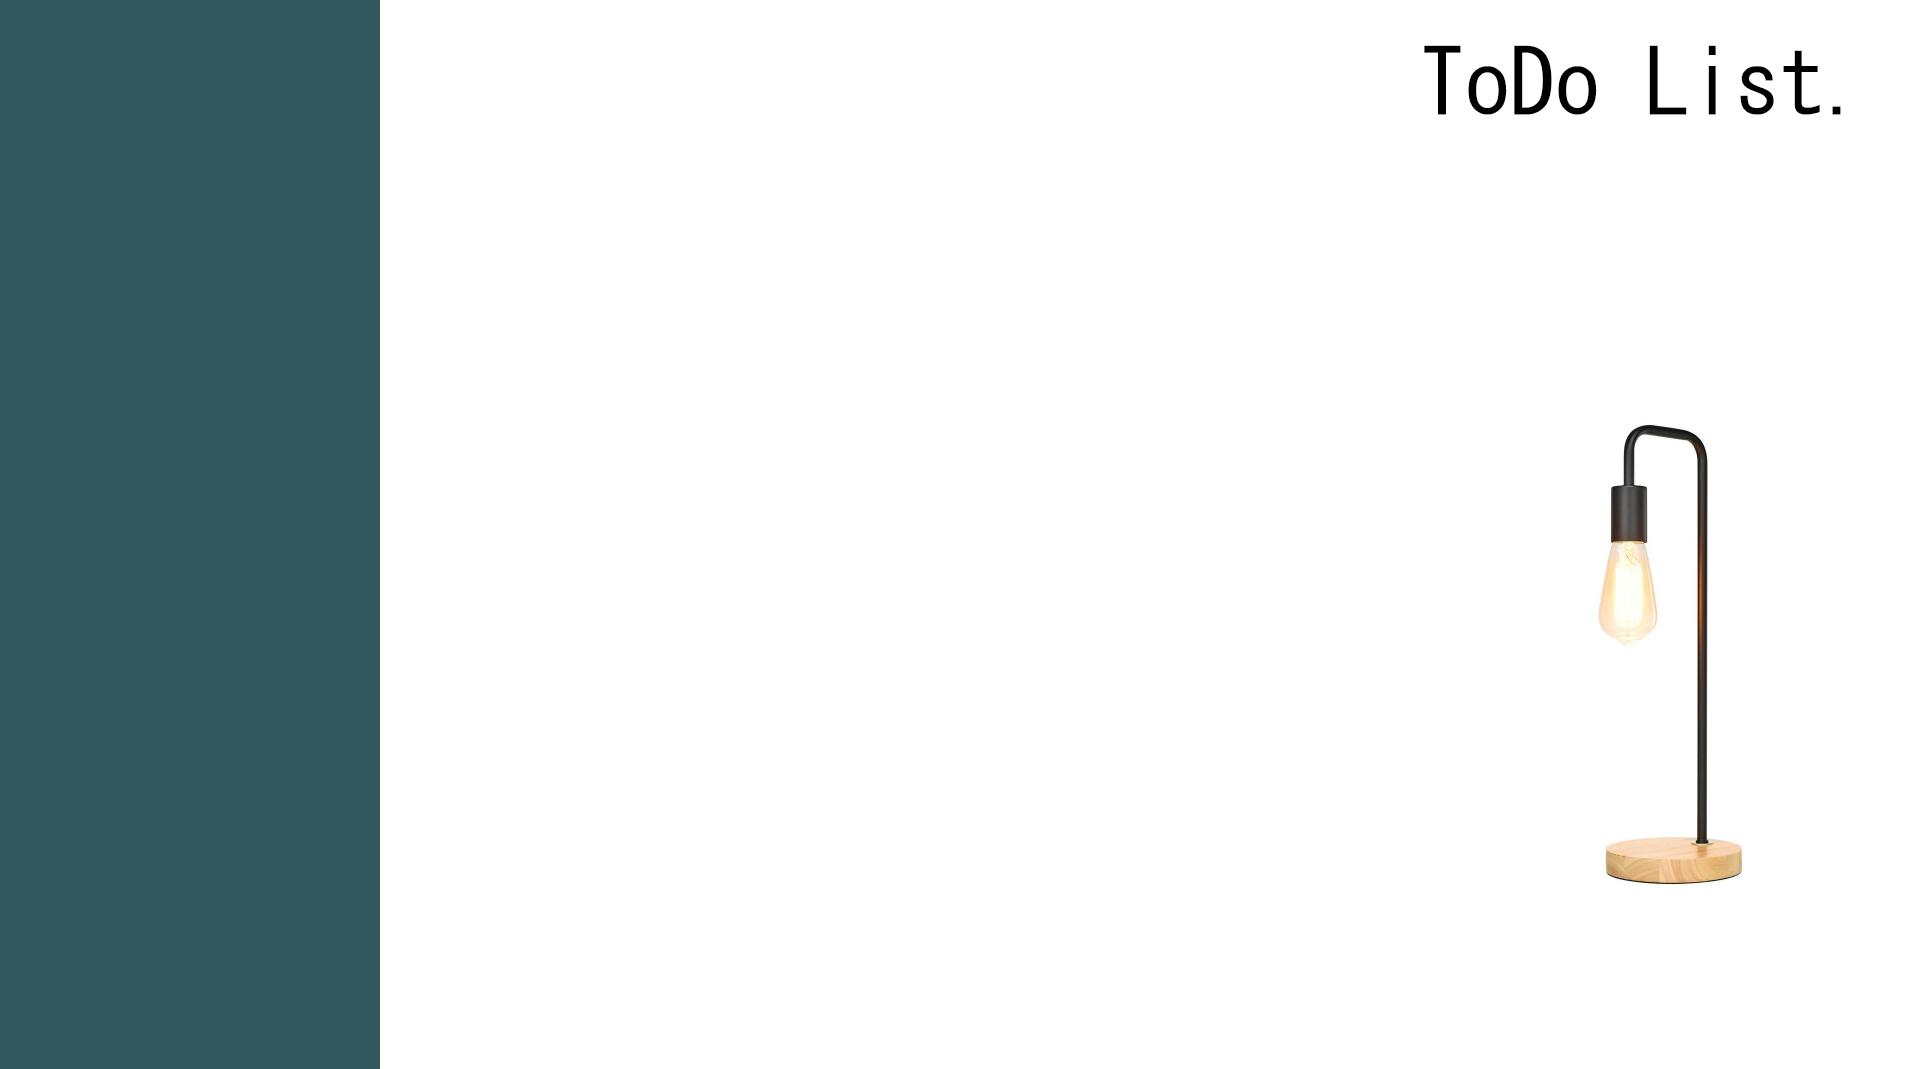
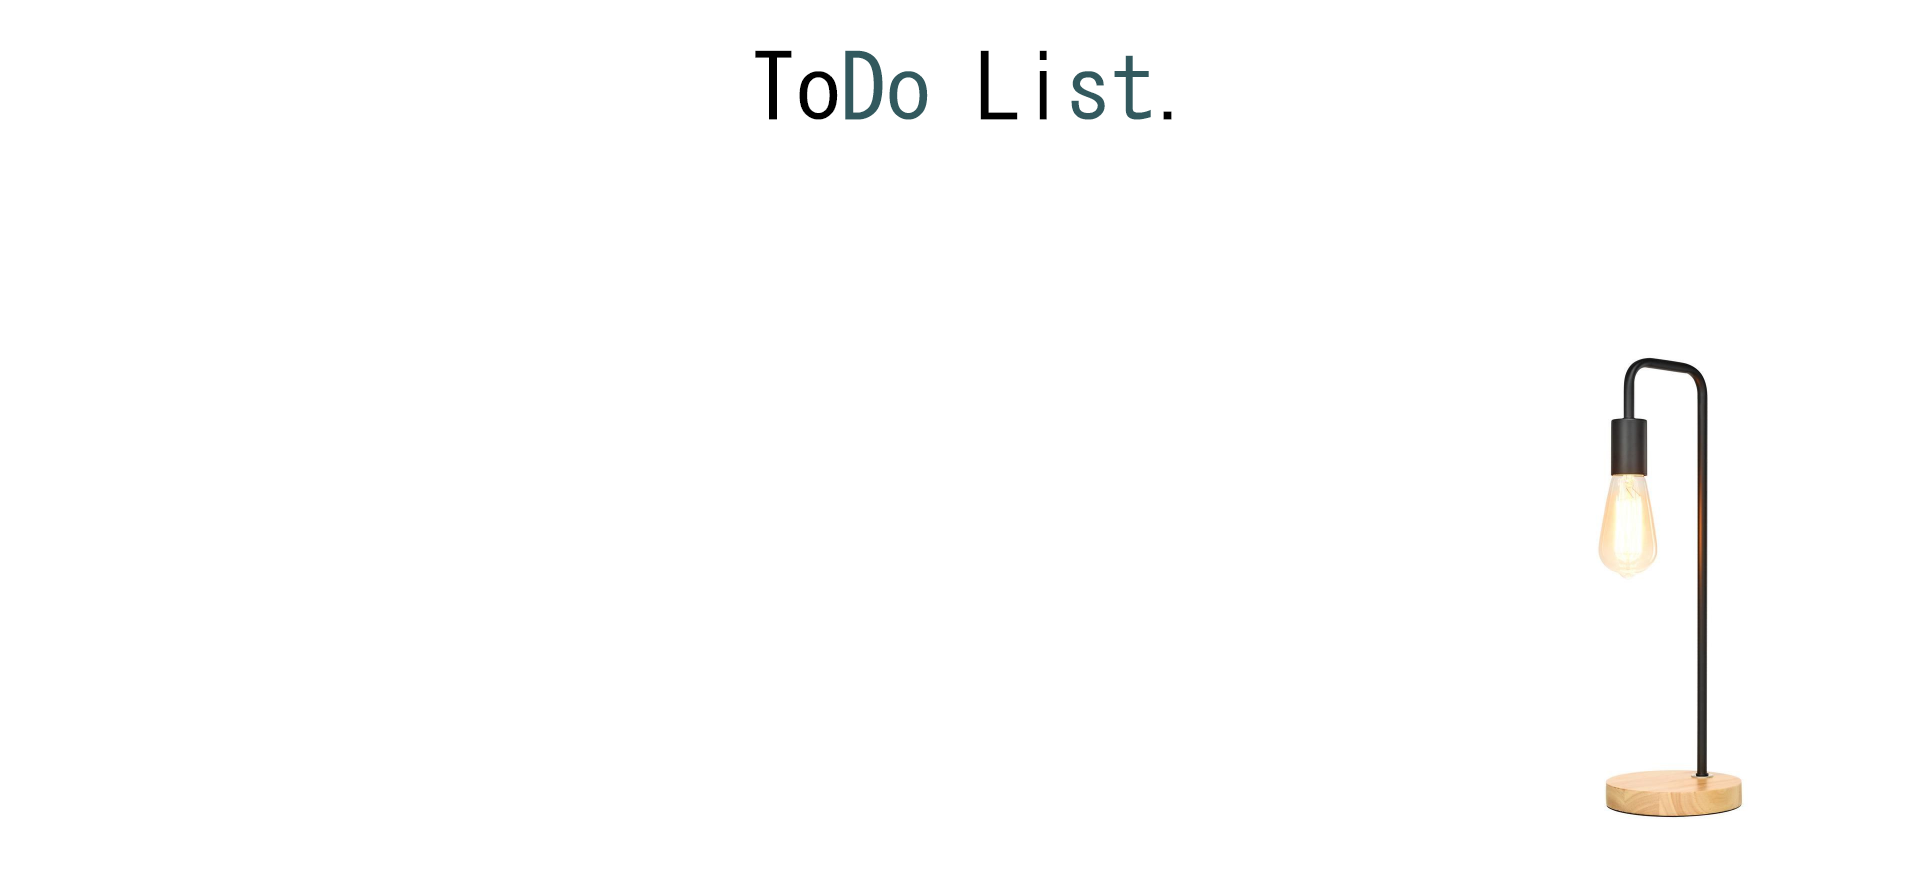
[ToDoList][Charlie-Janelle]  Refactor  : enhanced css

diff --git a/src/components/ToDoGenerator.js b/src/components/ToDoGenerator.js
@@ -16,12 +16,12 @@ class ToDoGenerator extends Component {
 
     render() {
         return (
-            <div>
-                <form onSubmit={this.onAddToDoItem}>
-                    <section>
-                        <Input placeholder="input todo here..."  type="text" 
-                        name="toDoInput" id="toDoInput" allowClear />
-                        <input type="submit" value="ADD" id="toDoSubmit" />
+            <div >
+                <form onSubmit={this.onAddToDoItem} >
+                    <section >
+                        <Input  placeholder="input todo here..."  type="text"  allowClear />
+                        <input type="submit"id="toDoSubmit">
+                        </input>
                     </section>
                 </form>
             </div>

diff --git a/src/components/DoneList.js b/src/components/DoneList.js
@@ -18,8 +18,6 @@ class DoneList extends Component {
                 render: text => <b>{text}</b>,
             }];
 
-        // const doneList = this.props.doneItems.map((toDo) => 
-        // <li DoneListContainer key={toDo.id}>{toDo.text}</li>);
         return (
             <div>
                 <ul>

diff --git a/src/App.css b/src/App.css
@@ -26,9 +26,8 @@
 
 #todoList{
 position: absolute;
-top: 250px;
-left: 700px; 
-
+top: 220px;
+left: 650px; 
 }
 
 .scrollbar {

diff --git a/src/css/ToDoGenerator.css b/src/css/ToDoGenerator.css
@@ -5,3 +5,7 @@
     margin-left:30px;
     background-color:black;
 }
+#toDoInput{
+    top: 200px;
+}
+    
